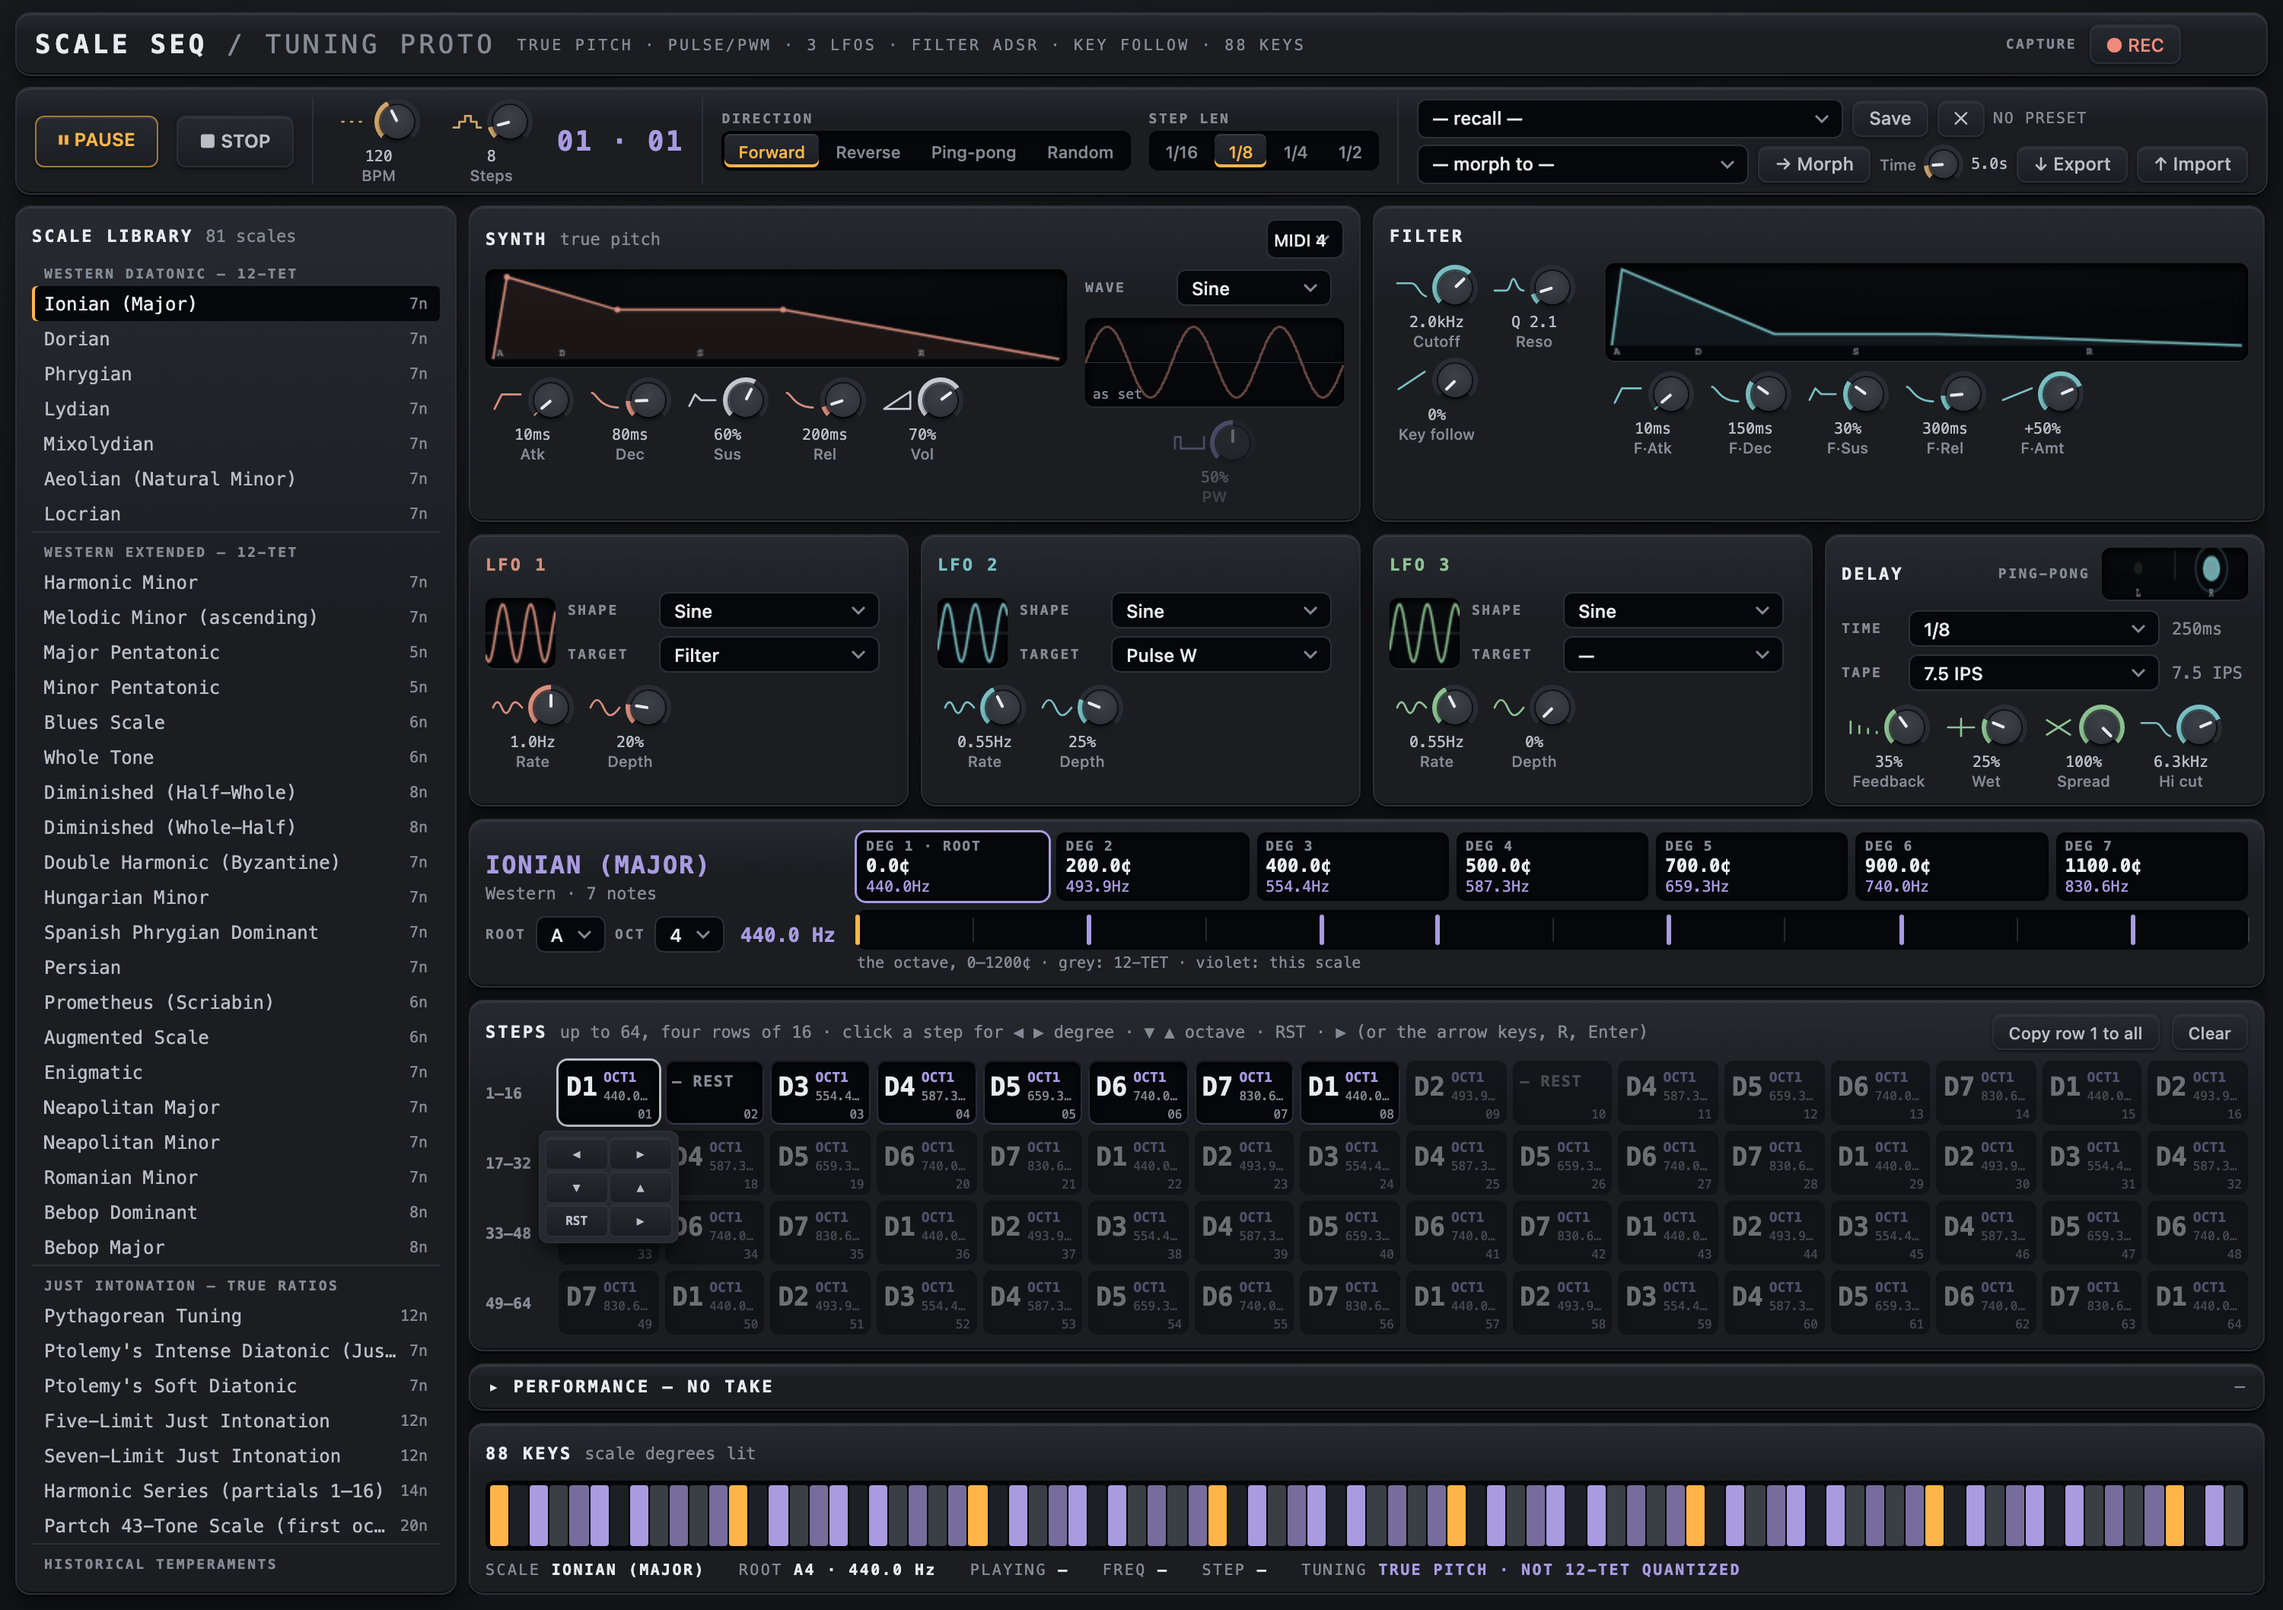
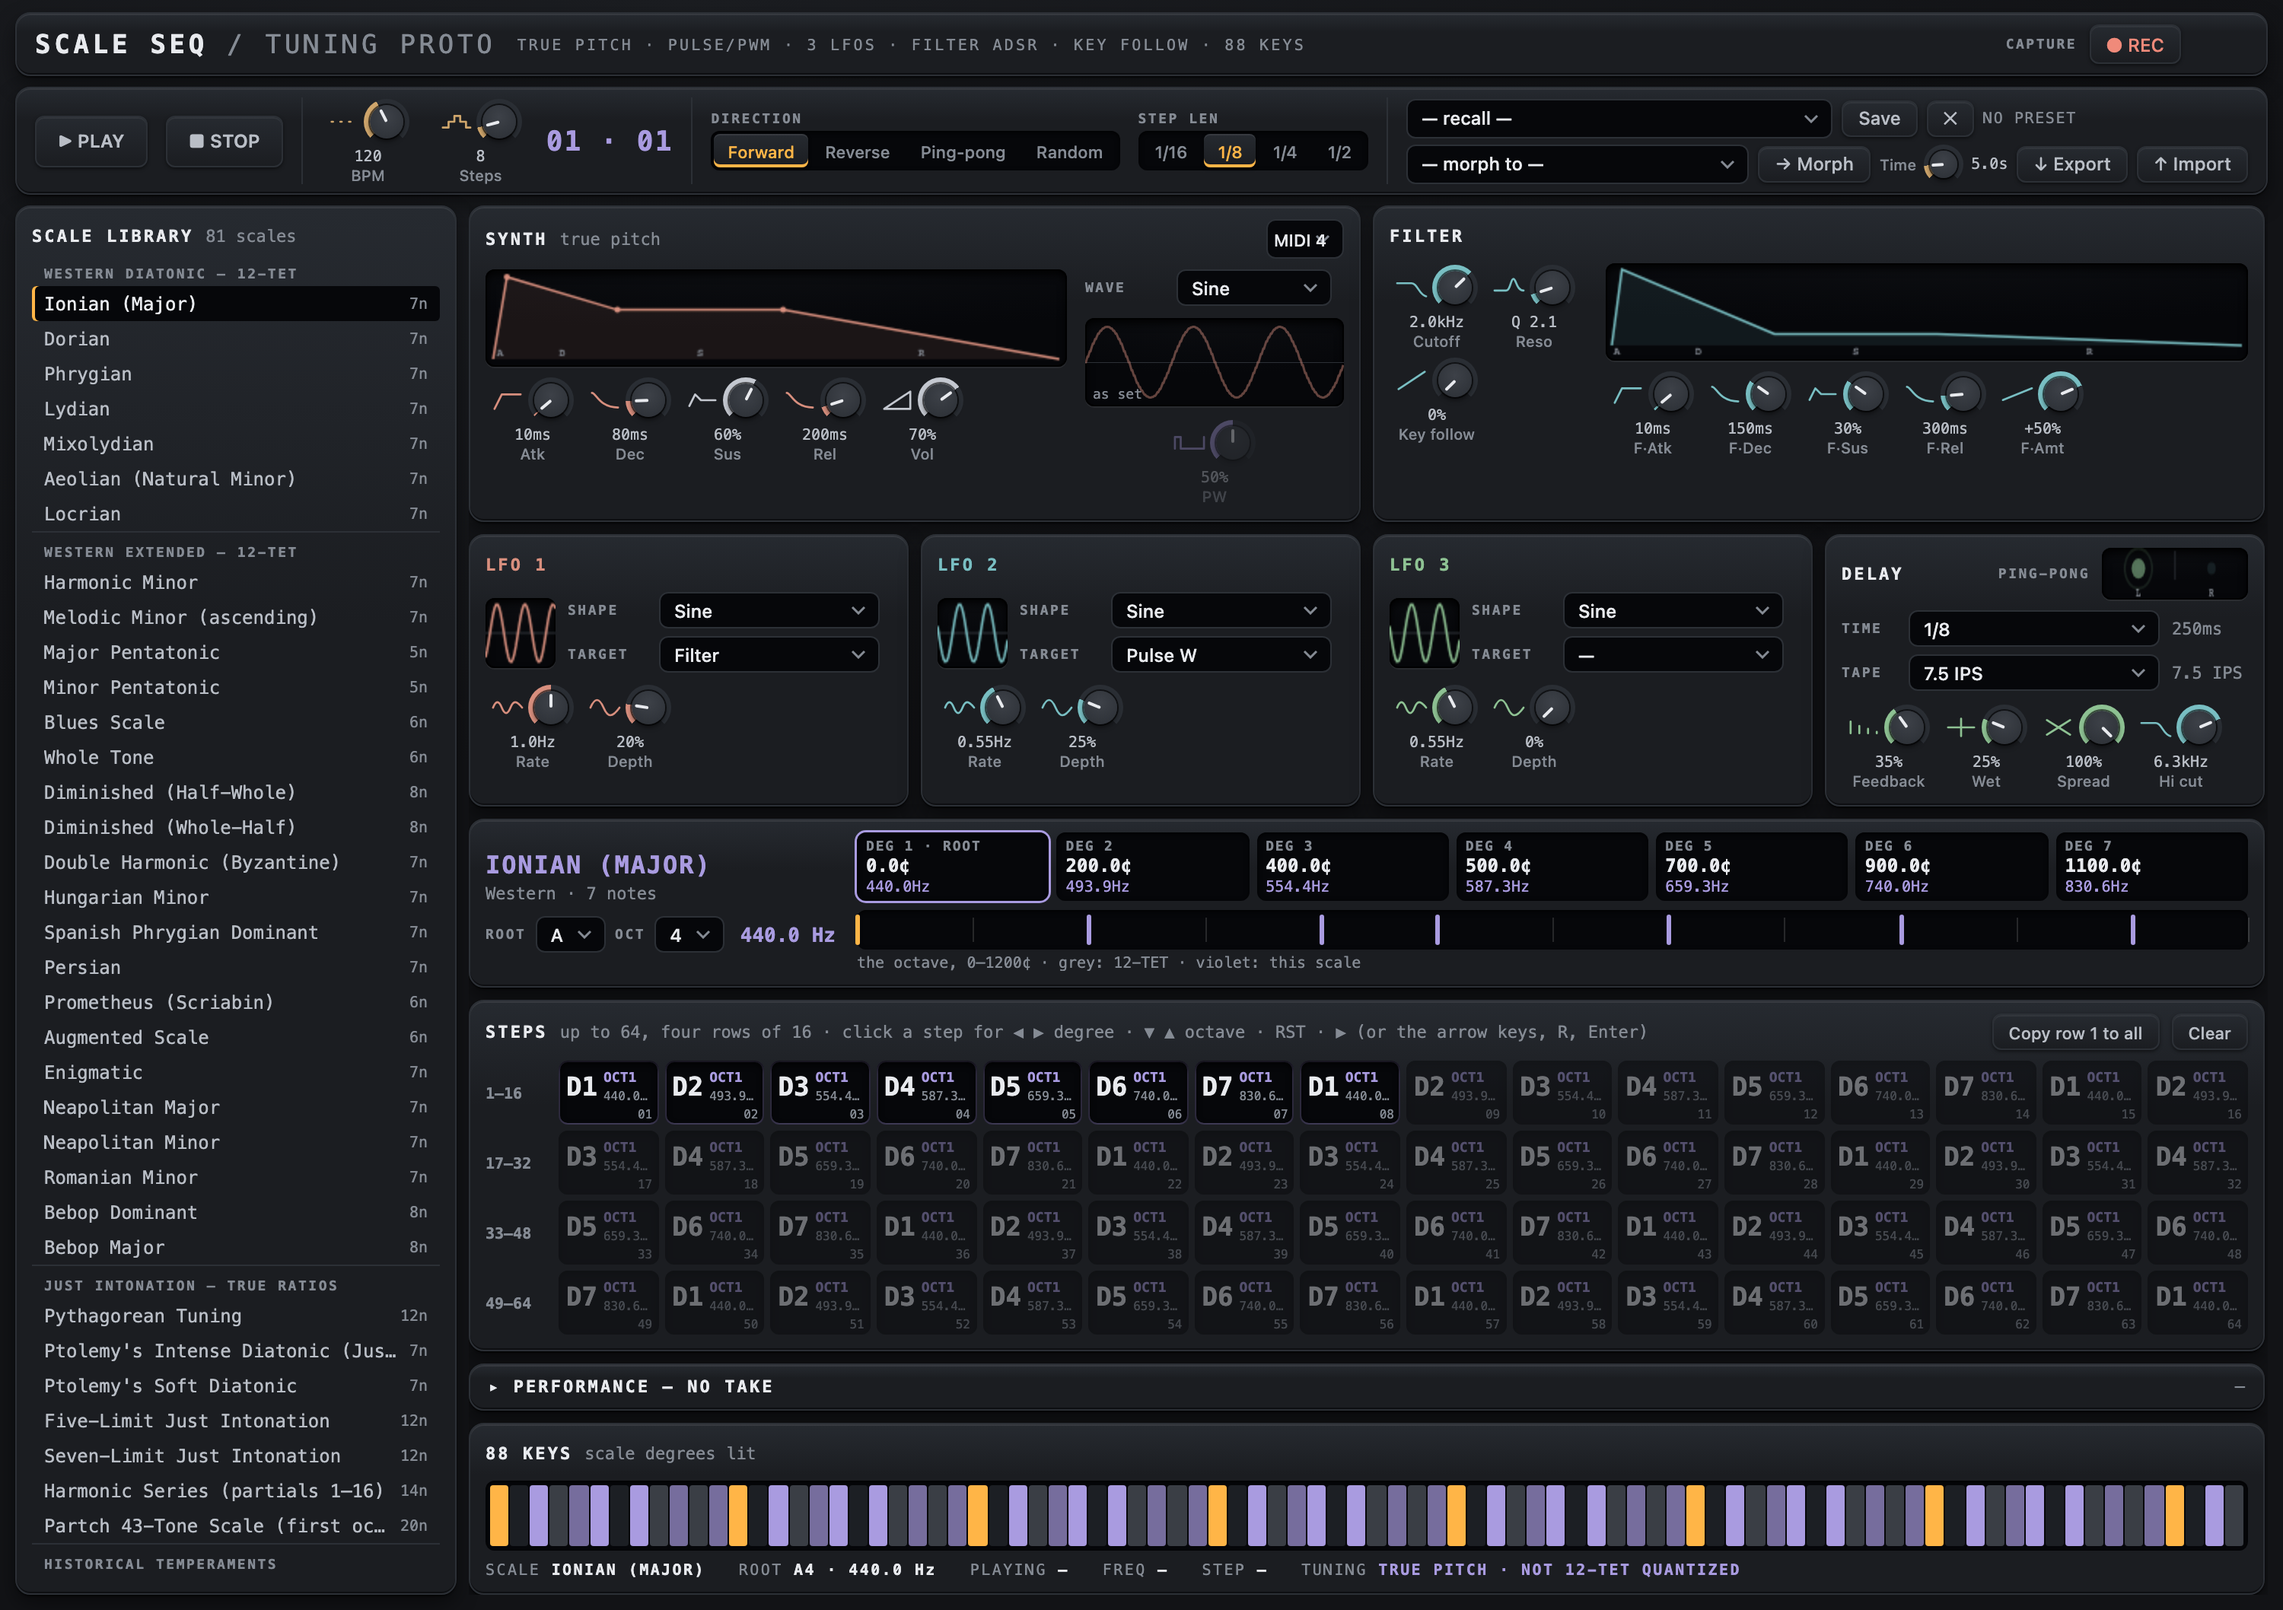
native(app): Seq's face: unplayed steps dimmed with their words, the page's MIDI menu, select chevrons as the stylesheet paints them; the capture takes the page's picture and lists before staging; tools/app-on-mbp.sh

diff --git a/native/app/Source/SeqFace.cpp b/native/app/Source/SeqFace.cpp
@@ -423,12 +423,6 @@ juce::StringArray SeqFace::optionValues (const juce::String& key, juce::StringAr
             for (const auto& p : presetNames())
                 out.add (p), names.add (p);
     }
-    else if (key == "kyMidi_classic")
-    {
-        out.add ("0"), names.add ("MIDI off");
-        for (int c = 1; c <= 16; ++c)
-            out.add (juce::String (c)), names.add ("MIDI " + juce::String (c));
-    }
     else if (auto* rows = data["selects"].getArray())
         for (const auto& s : *rows)
             if (s[0].toString() == key)
@@ -821,8 +815,11 @@ void SeqFace::drawStep (juce::Graphics& g, int i)
     const int oct = (int) std::floor ((double) degree / n) + 1;
     juce::Graphics::ScopedSaveState keep (g);
     g.addTransform (juce::AffineTransform::translation (offset.x, offset.y));
+    // Its words as dim as its box (the frame dims the box by its opacity).
     const float opacity = numOf ((*tmpl)["opacity"], 1.0f);
-    g.setOpacity (opacity);
+    const bool dim = opacity < 0.999f;
+    if (dim)
+        g.beginTransparencyLayer (opacity);
     const auto* restTmpl = gridStep (grid.tree, active ? 1 : 9);
     eachNode (*tmpl, [&] (const juce::var& node) {
         if (hasClass (node, "step-num"))
@@ -850,6 +847,8 @@ void SeqFace::drawStep (juce::Graphics& g, int i)
             if (hasClass (node, "step-rest"))
                 drawText (g, node, firstText (node), false);
         });
+    if (dim)
+        g.endTransparencyLayer();
 }
 
 void SeqFace::drawSteps (juce::Graphics& g)

diff --git a/native/app/Source/Face.cpp b/native/app/Source/Face.cpp
@@ -948,6 +948,23 @@ void Chrome::drawNode (juce::Graphics& g, const juce::var& n, const juce::var* l
             g.setColour (colour (n["font"]["colour"]));
             g.drawText (options->getReference (chosen).toString(), r.reduced (8.0f, 0.0f), juce::Justification::centredLeft, false);
         }
+        // The chevron the stylesheet paints as its background image
+        // (`select`: a 10 x 6 "M1 1l4 4 4-4", #858b94, 1.5 wide, 8 px from
+        // the right, centred), which the capture keeps only as "an image".
+        bool image = false;
+        if (auto* layers = n["layers"].getArray())
+            for (const auto& l : *layers)
+                image = image || l["type"].toString() == "image";
+        if (image)
+        {
+            const float x = r.getRight() - 8.0f - 10.0f, y = r.getCentreY() - 3.0f;
+            juce::Path chevron;
+            chevron.startNewSubPath (x + 1, y + 1);
+            chevron.lineTo (x + 5, y + 5);
+            chevron.lineTo (x + 9, y + 1);
+            g.setColour (juce::Colour (0xff858b94));
+            g.strokePath (chevron, juce::PathStrokeType (1.5f));
+        }
     }
 
     if ((bool) n["clip"])
